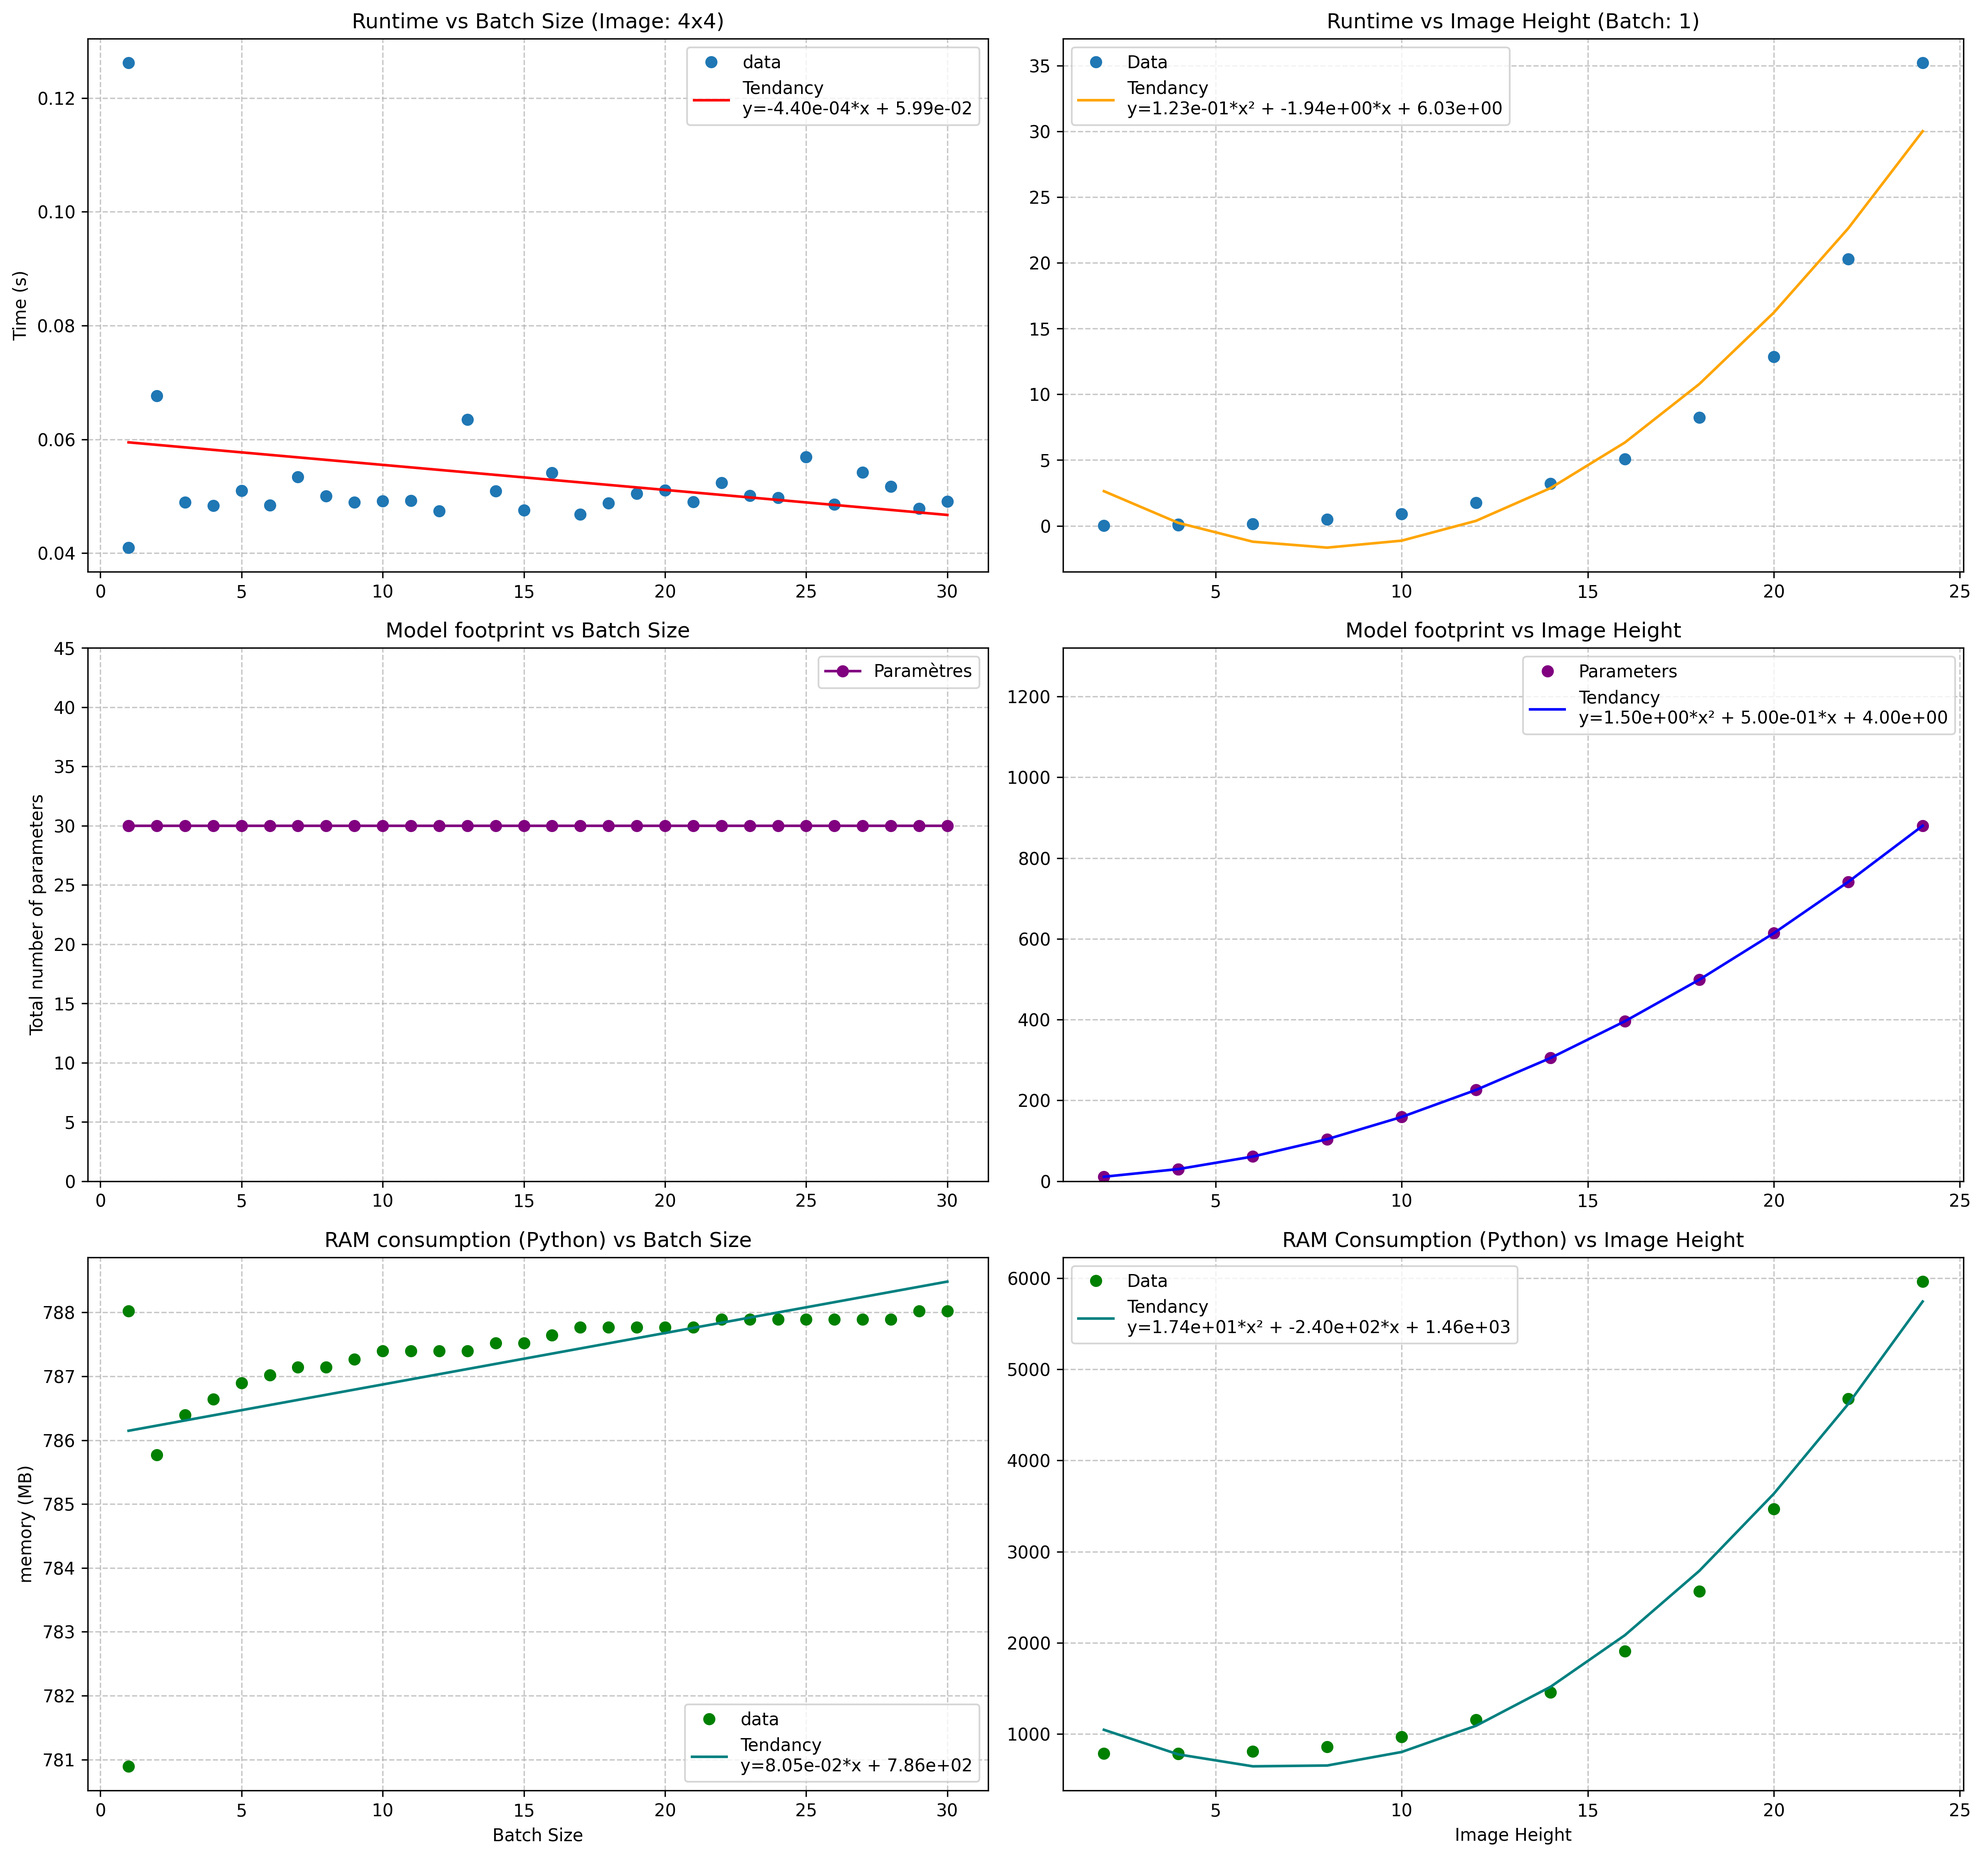
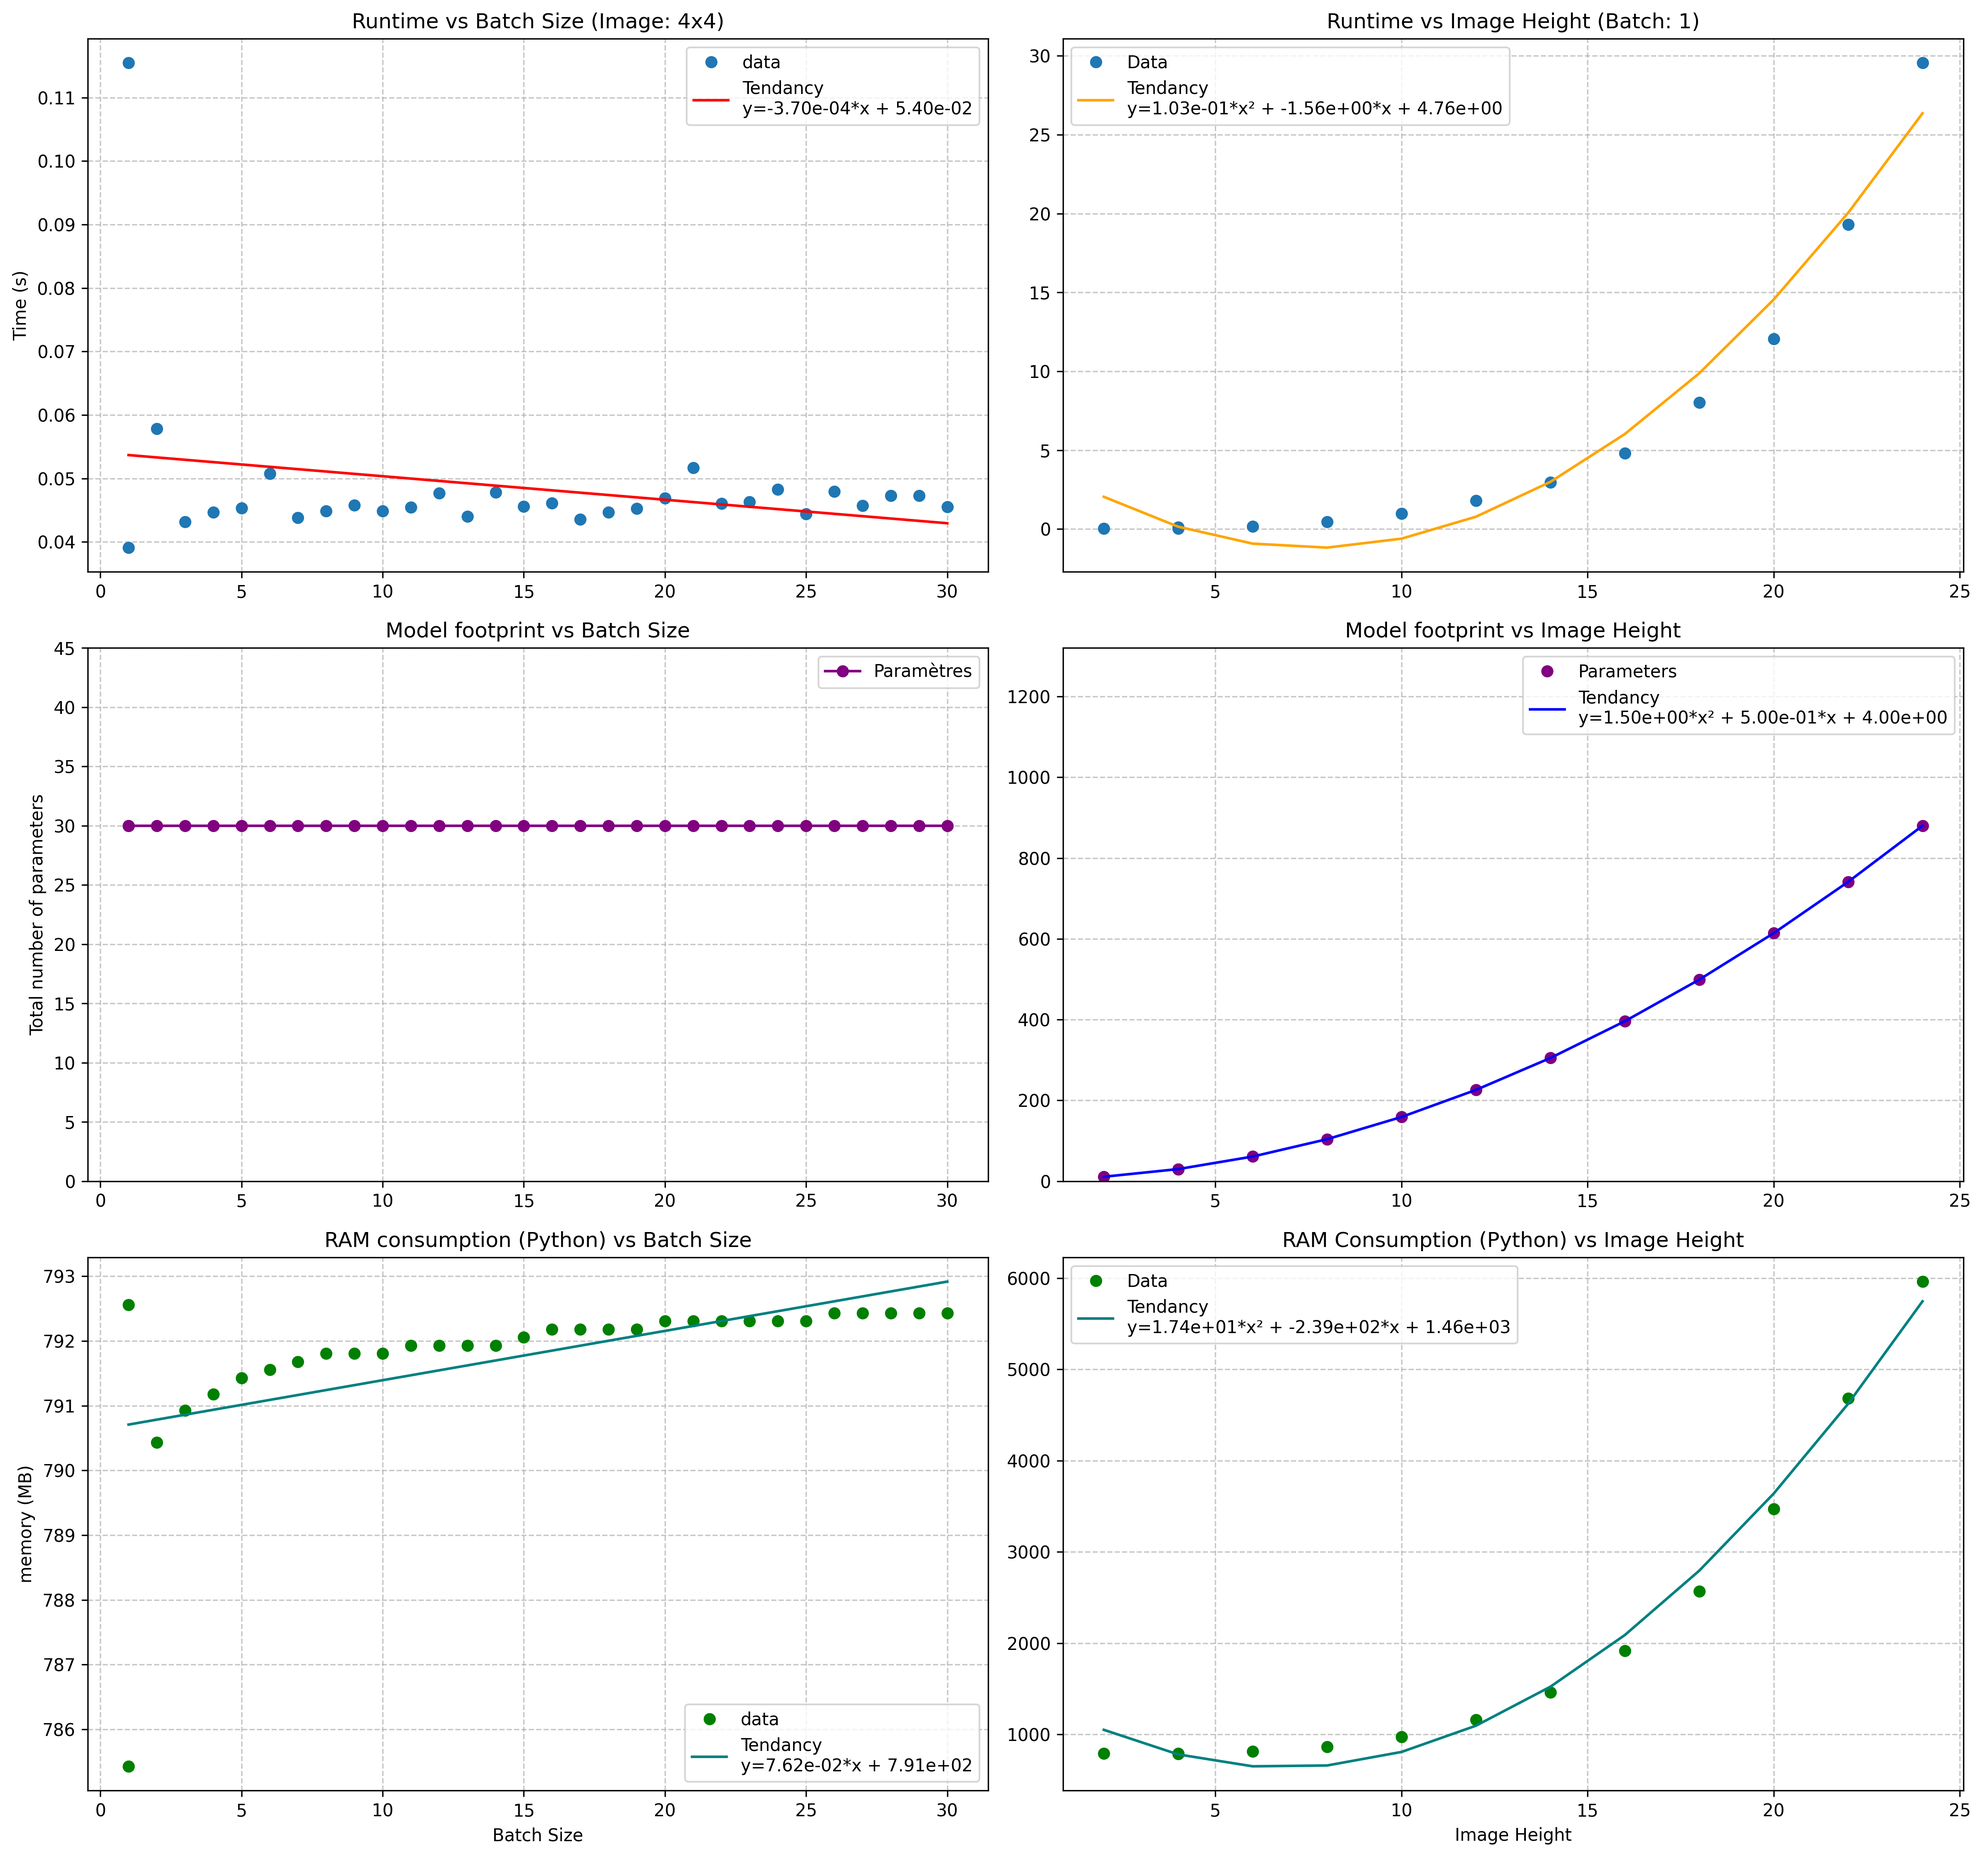
refined scaling_study_graphs.py to test if exponential estimation was better than quadratic

diff --git a/benchmarks/scaling_study_graphs.py b/benchmarks/scaling_study_graphs.py
@@ -1,18 +1,11 @@
-"""
-this documents process the data in file ./benchmarks/scaling_study_benchmark.csv
-
-and plot them into 6 different graphs, to see how the wcnn model scales in term of :
-- Runtime
-- footprint
-- RAM
-
-graphs are saved on : ./docs/source/_static/img/graph_scaling_study.png
-"""
-
 import pandas as pd
 import matplotlib.pyplot as plt
 import numpy as np
+from scipy.optimize import curve_fit
+from pathlib import Path
 
+def exp_func(x, a, b):
+    return a * np.exp(b * x)
 
 csv_filename = "benchmarks/scaling_study_benchmark.csv"
 df = pd.read_csv(csv_filename)
@@ -22,88 +15,79 @@ df["forward_backward_time_sec"] = df["forward_backward_time_sec"].astype(float)
 df["num_parameters"] = df["num_parameters"].astype(float)
 df["peak_memory_mb"] = df["peak_memory_mb"].astype(float)
 
-
 df_batch = df[df["image_height"] == 4].sort_values(by="batch_size")
 df_height = df[df["batch_size"] == 1].sort_values(by="image_height")
 
-
 fig, axs = plt.subplots(3, 2, figsize=(16, 15))
-ax1, ax2 = axs[0, 0], axs[0, 1]  # Line 1 : Runtime
-ax3, ax4 = axs[1, 0], axs[1, 1]  # Line 2 : Parameters
-ax5, ax6 = axs[2, 0], axs[2, 1]  # Line 3 : RAM
+ax1, ax2 = axs[0, 0], axs[0, 1]
+ax3, ax4 = axs[1, 0], axs[1, 1]
+ax5, ax6 = axs[2, 0], axs[2, 1]
 
-# runtime scaling according to batchsize
 x_batch = df_batch["batch_size"].values
 y_time_batch = df_batch["forward_backward_time_sec"].values
 if len(x_batch) > 1:
     coefs = np.polyfit(x_batch, y_time_batch, 1)
     ax1.plot(x_batch, y_time_batch, 'o', label="data")
-    ax1.plot(x_batch, np.polyval(coefs, x_batch), '-', color='red', label=f"Tendancy\ny={coefs[0]:.2e}*x + {coefs[1]:.2e}")
+    ax1.plot(x_batch, np.polyval(coefs, x_batch), '-', color='red', label=f"y={coefs[0]:.2e}*x + {coefs[1]:.2e}")
 ax1.set_title("Runtime vs Batch Size (Image: 4x4)")
 ax1.set_ylabel("Time (s)")
 ax1.grid(True, linestyle='--', alpha=0.7)
 if len(x_batch) > 1: ax1.legend()
 
-# runtime scaling according to input size
 x_height = df_height["image_height"].values
 y_time_height = df_height["forward_backward_time_sec"].values
 if len(x_height) > 2:
-    coefs = np.polyfit(x_height, y_time_height, 2)
+    popt, pcov = curve_fit(exp_func, x_height, y_time_height)
+    a, b = popt
     ax2.plot(x_height, y_time_height, 'o', label="Data")
-    ax2.plot(x_height, np.polyval(coefs, x_height), '-', color='orange', label=f"Tendancy\ny={coefs[0]:.2e}*x² + {coefs[1]:.2e}*x + {coefs[2]:.2e}")
+    ax2.plot(x_height, exp_func(x_height, a, b), '-', color='orange', label=f"y={a:.2e} * e^({b:.2e}*x)")
 ax2.set_title("Runtime vs Image Height (Batch: 1)")
 ax2.grid(True, linestyle='--', alpha=0.7)
 if len(x_height) > 2: ax2.legend()
 
-# model footprint scaling according to batchsize
 y_params_batch = df_batch["num_parameters"].values
 if len(x_batch) > 0:
-    ax3.plot(x_batch, y_params_batch, 'o-', color='purple', label="Paramètres")
-    ax3.set_ylim(0, max(y_params_batch) * 1.5) 
+    ax3.plot(x_batch, y_params_batch, 'o-', color='purple', label="Parameters")
+    ax3.set_ylim(0, max(y_params_batch) * 1.5)
 ax3.set_title("Model footprint vs Batch Size")
 ax3.set_ylabel("Total number of parameters")
 ax3.grid(True, linestyle='--', alpha=0.7)
 if len(x_batch) > 0: ax3.legend()
 
-# model footprint scaling according to input size
 y_params_height = df_height["num_parameters"].values
-if len(x_height) > 0:
-    ax4.plot(x_height, y_params_height, 'o', color='purple', label="Parameters")
-    if len(x_height) > 2:
-        coefs = np.polyfit(x_height, y_params_height, 2)
-        ax4.plot(x_height, np.polyval(coefs, x_height), '-', color='blue', label=f"Tendancy\ny={coefs[0]:.2e}*x² + {coefs[1]:.2e}*x + {coefs[2]:.2e}")
-    ax4.set_ylim(0, max(y_params_height) * 1.5)
+if len(x_height) > 2:
+    popt, pcov = curve_fit(exp_func, x_height, y_params_height)
+    a, b = popt
+    ax4.plot(x_height, exp_func(x_height, a, b), '-', color='purple', label=f"y={a:.2e} * e^({b:.2e}*x)")
+ax4.plot(x_height, y_params_height, 'o', color='purple', label="Data")
+ax4.set_ylim(0, max(y_params_height) * 1.5)
 ax4.set_title("Model footprint vs Image Height")
 ax4.grid(True, linestyle='--', alpha=0.7)
 if len(x_height) > 0: ax4.legend()
 
-# RAM consumption scaling according to batchSize
 y_ram_batch = df_batch["peak_memory_mb"].values
 if len(x_batch) > 1:
     coefs = np.polyfit(x_batch, y_ram_batch, 1)
     ax5.plot(x_batch, y_ram_batch, 'o', color='green', label="data")
-    ax5.plot(x_batch, np.polyval(coefs, x_batch), '-', color='teal', label=f"Tendancy\ny={coefs[0]:.2e}*x + {coefs[1]:.2e}")
+    ax5.plot(x_batch, np.polyval(coefs, x_batch), '-', color='teal', label=f"y={coefs[0]:.2e}*x + {coefs[1]:.2e}")
 ax5.set_title("RAM consumption (Python) vs Batch Size")
 ax5.set_xlabel("Batch Size")
 ax5.set_ylabel("memory (MB)")
 ax5.grid(True, linestyle='--', alpha=0.7)
 if len(x_batch) > 1: ax5.legend()
 
-# RAM consumption scaling according to input size
 y_ram_height = df_height["peak_memory_mb"].values
 if len(x_height) > 2:
-    coefs = np.polyfit(x_height, y_ram_height, 2)
-    ax6.plot(x_height, y_ram_height, 'o', color='green', label="Data")
-    ax6.plot(x_height, np.polyval(coefs, x_height), '-', color='teal', label=f"Tendancy\ny={coefs[0]:.2e}*x² + {coefs[1]:.2e}*x + {coefs[2]:.2e}")
+    popt, pcov = curve_fit(exp_func, x_height, y_ram_height)
+    a, b = popt
+    ax6.plot(x_height, exp_func(x_height, a, b), '-', color='teal', label=f"y={a:.2e} * e^({b:.2e}*x)")
+ax6.plot(x_height, y_ram_height, 'o', color='green', label="Data")
 ax6.set_title("RAM Consumption (Python) vs Image Height")
 ax6.set_xlabel("Image Height")
 ax6.grid(True, linestyle='--', alpha=0.7)
 if len(x_height) > 2: ax6.legend()
 
-# ==========================================
-# Save the graphs
-# ==========================================
 plt.tight_layout()
-output_path = "./docs/source/_static/img/graph_scaling_study.png"
+output_path = "./docs/source/_static/img/graph_scaling_study_exp.png"
 plt.savefig(output_path, dpi=300, bbox_inches='tight')
 print(f"Graph saved on : {output_path}")
